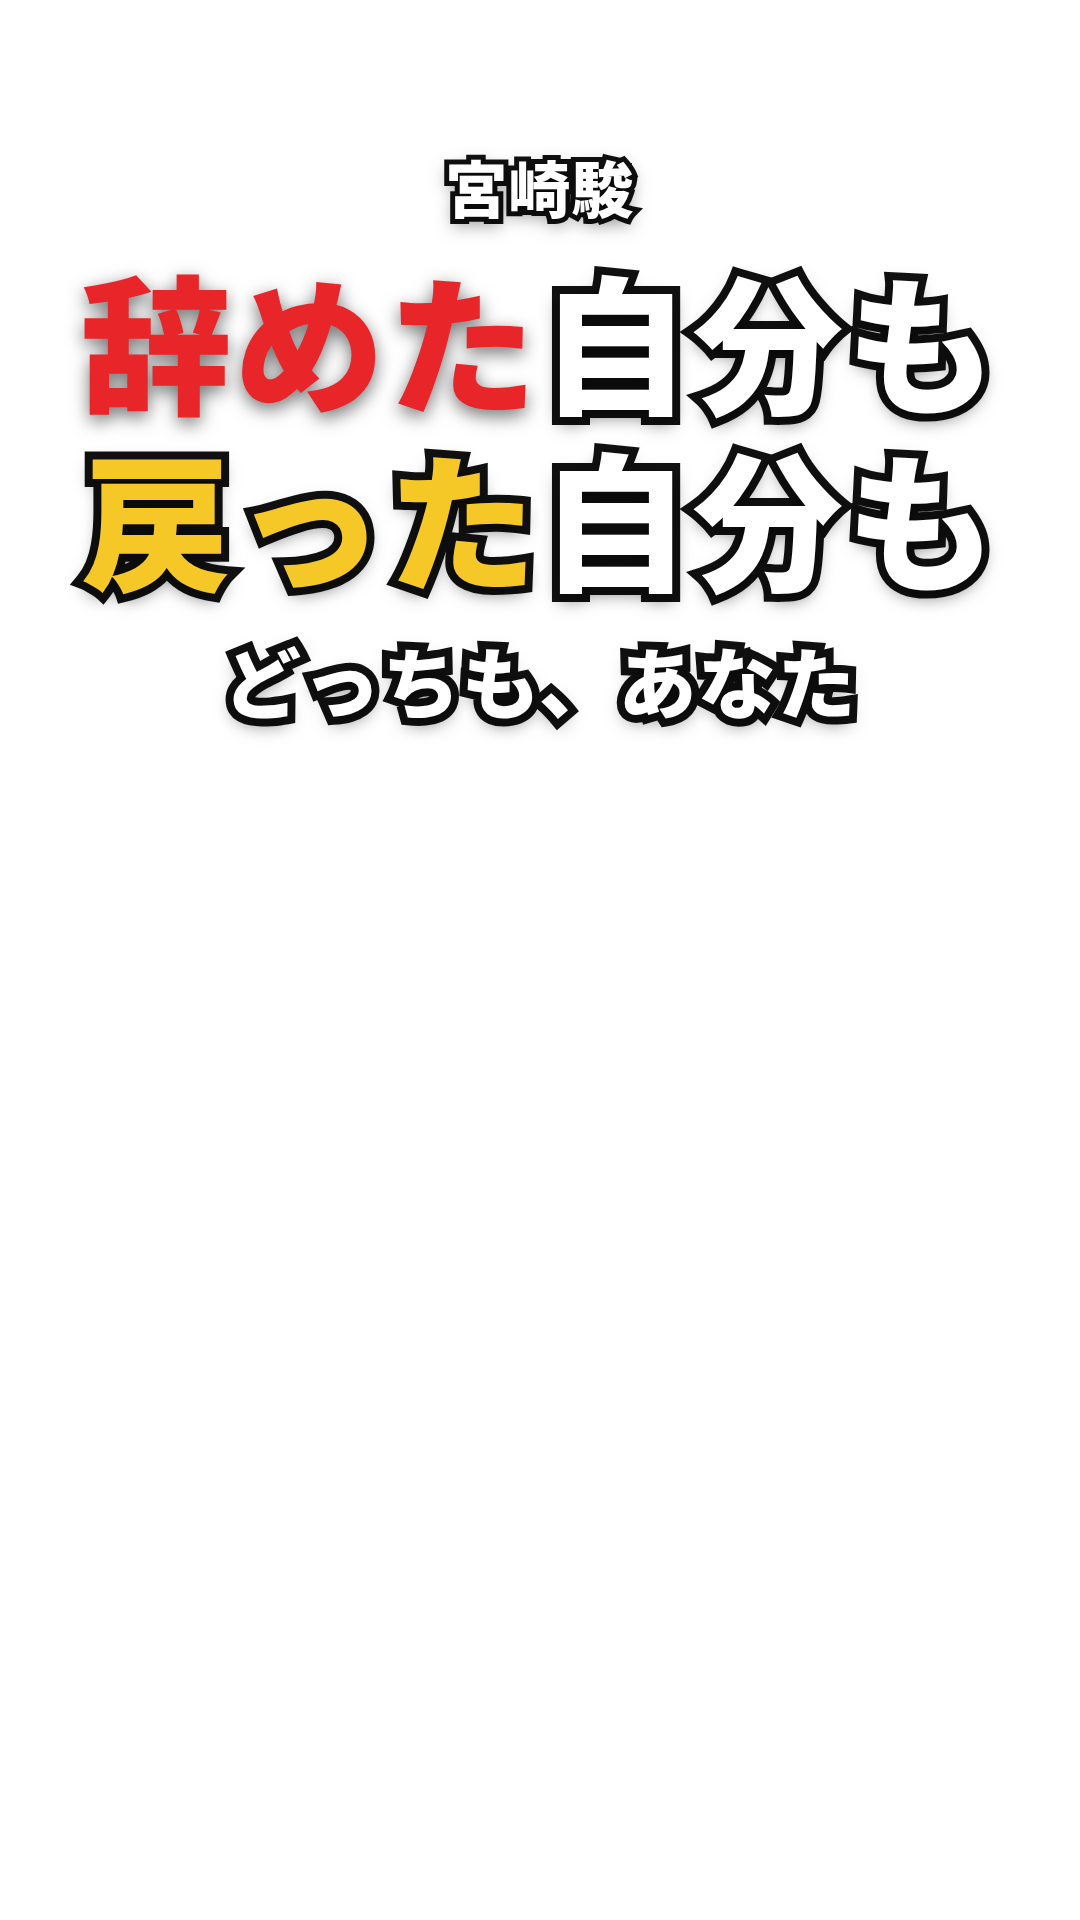
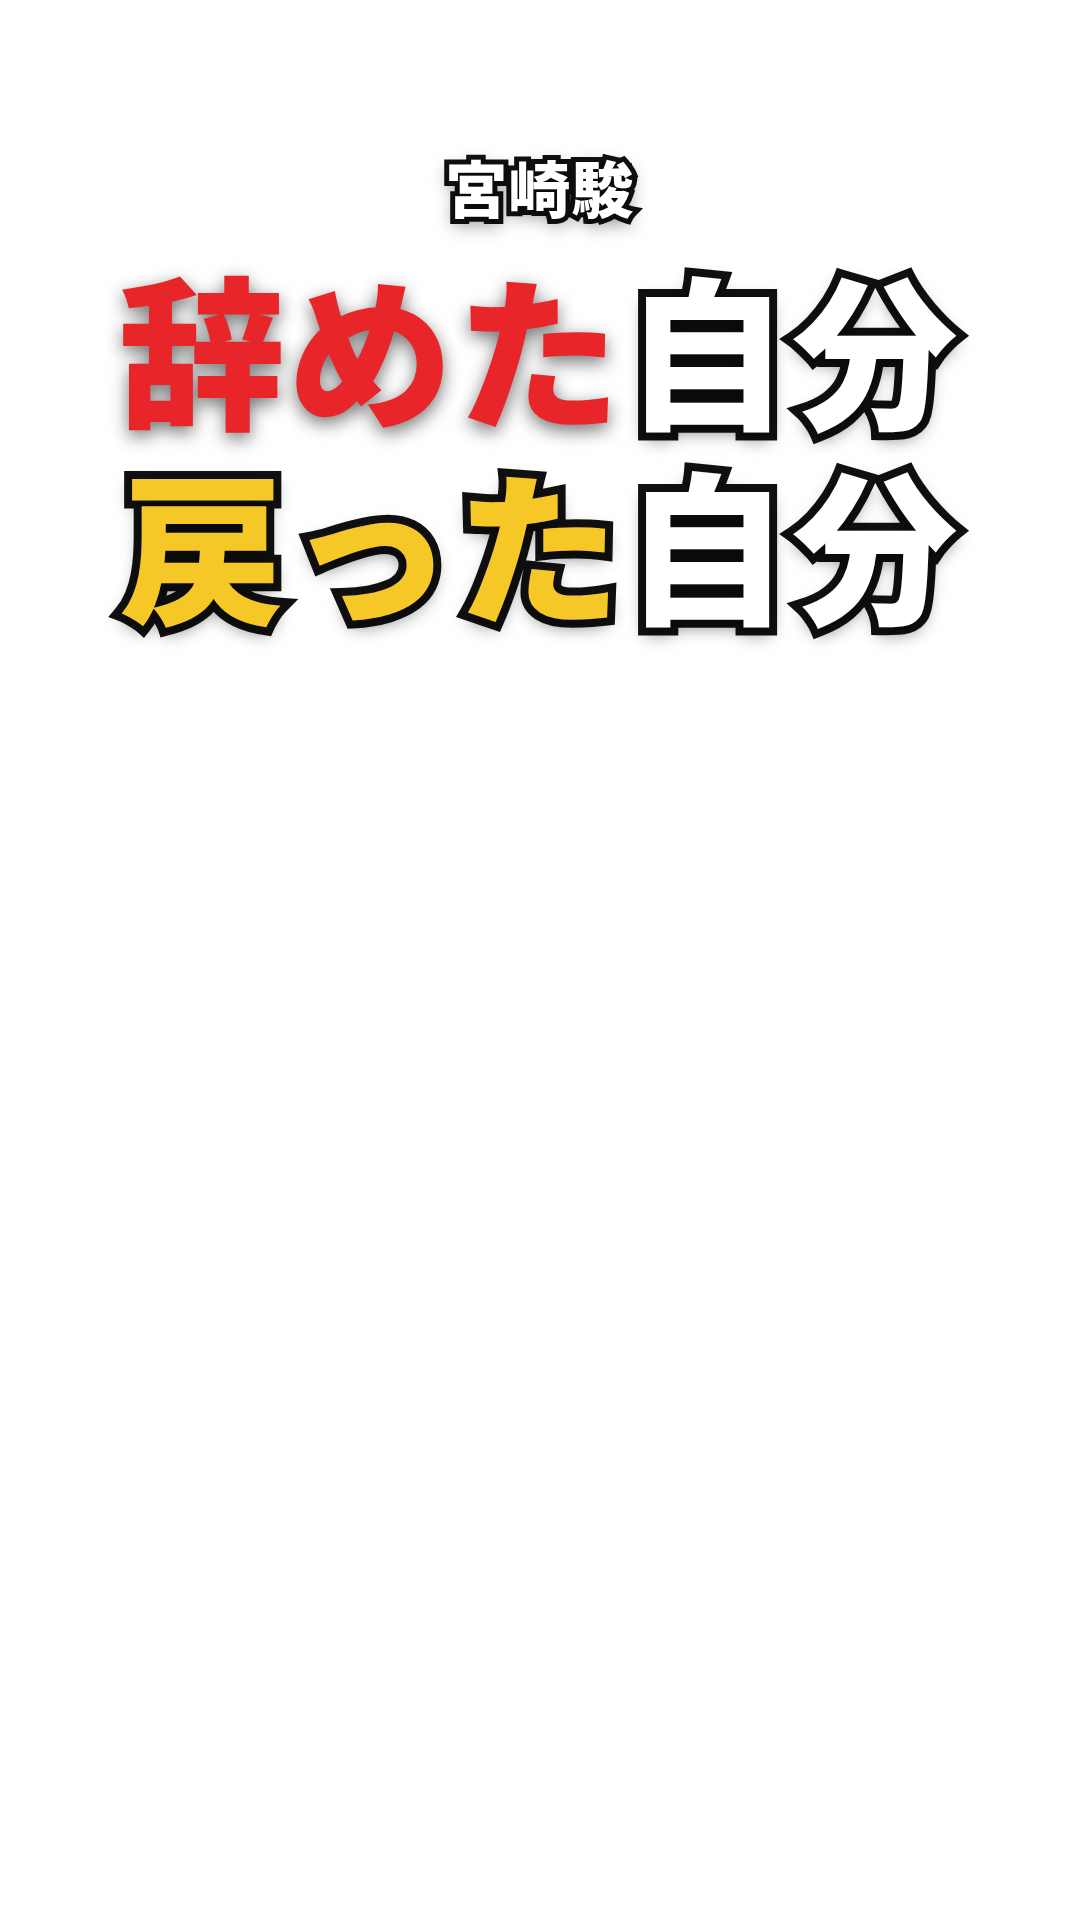
宮崎駿の回: サムネの文字を3つ（宮崎駿・辞めた自分・戻った自分）に整理、ChatGPT用サムネ・イラストのプロンプトを追加
Claude-Session: https://claude.ai/code/session_01MFLTa9NWAo42jLp5pEp5EJ

Changed region(s): [[0.0611, 0.125, 0.9167, 0.4062]]

diff --git a/company/majime-no-me/shorts-jinbutsu/miyazaki-hayao/image-prompts.md b/company/majime-no-me/shorts-jinbutsu/miyazaki-hayao/image-prompts.md
@@ -132,8 +132,14 @@ Bold sharp pencil sketch, thick and thin mixed lines, light colored pencil wash 
 - 文字（デザインルールどおり）: グレー帯「引退した監督が」／黄色の帯「**10年後**、アカデミー賞」（「10年後」だけ赤）／小さいグレー帯「宮崎駿」
 - 文字は中央寄せ。後ろ姿とトロフィーは隠さない
 
-## サムネ（2026-10-11 決定案）
-- 文字: 小「宮崎駿」／大「**辞めた**自分も」（辞めた＝赤）／大「**戻った**自分も」（戻った＝黄色）／中「どっちも、あなた」
+## サムネ（2026-10-11 決定）
+- 文字は3つだけ: 小「宮崎駿」／大「**辞めた**自分」（辞めた＝赤）／大「**戻った**自分」（戻った＝黄色）
 - デザイン: キアヌ お金編と同じ「帯なし・白文字＋黒フチ＋影」。赤は白フチ、黄色は黒フチ
-- 文字だけの透明PNG: `thumbnail-text-overlay.png`（1080×1920）→ ChatGPTで作ったNo.1の画像の上に重ねる
-- 見本: `thumbnail-mock.png`（背景はCanva試作の小さいプレビューを引き伸ばしたもの。並びの確認用）
+- 文字だけの透明PNG: `thumbnail-text-overlay.png`（1080×1920）→ ChatGPTのサムネ用イラストに重ねる
+- 見本: `thumbnail-mock.png`（背景はCanva試作の小さいプレビューを引き伸ばしたもの）
+- イラストはChatGPTで作る。上35%を空けて、文字を置く場所にする
+
+**サムネ用プロンプト（No.1と同じチャットで続けて送る）**
+```
+Bold sharp pencil sketch, thick and thin mixed lines, light colored pencil wash on white paper, NOT realistic, same style as before, 9:16 vertical, YouTube Shorts thumbnail composition. The upper 35% of the image is calm, almost empty white paper with very little detail, leaving clear space for large title text that will be added later. In the lower 65%: a present-day modern animation studio, an elderly man with white hair, black-rimmed glasses and a white beard, wearing a simple work apron over a white shirt, seen from behind over his shoulder as he draws with a pencil at a clean light-colored desk, an LED desk lamp and a sheet of drawing paper in front of him, and on the desk a small golden award statuette of a simple standing figure clearly visible with a warm glow, the gold being the only strong color accent. Bold thick outlines on the man and the statuette so the picture reads clearly even at small size, high contrast. No face shown, no text, no letters, not an Oscar statuette, not old-fashioned.
+```
